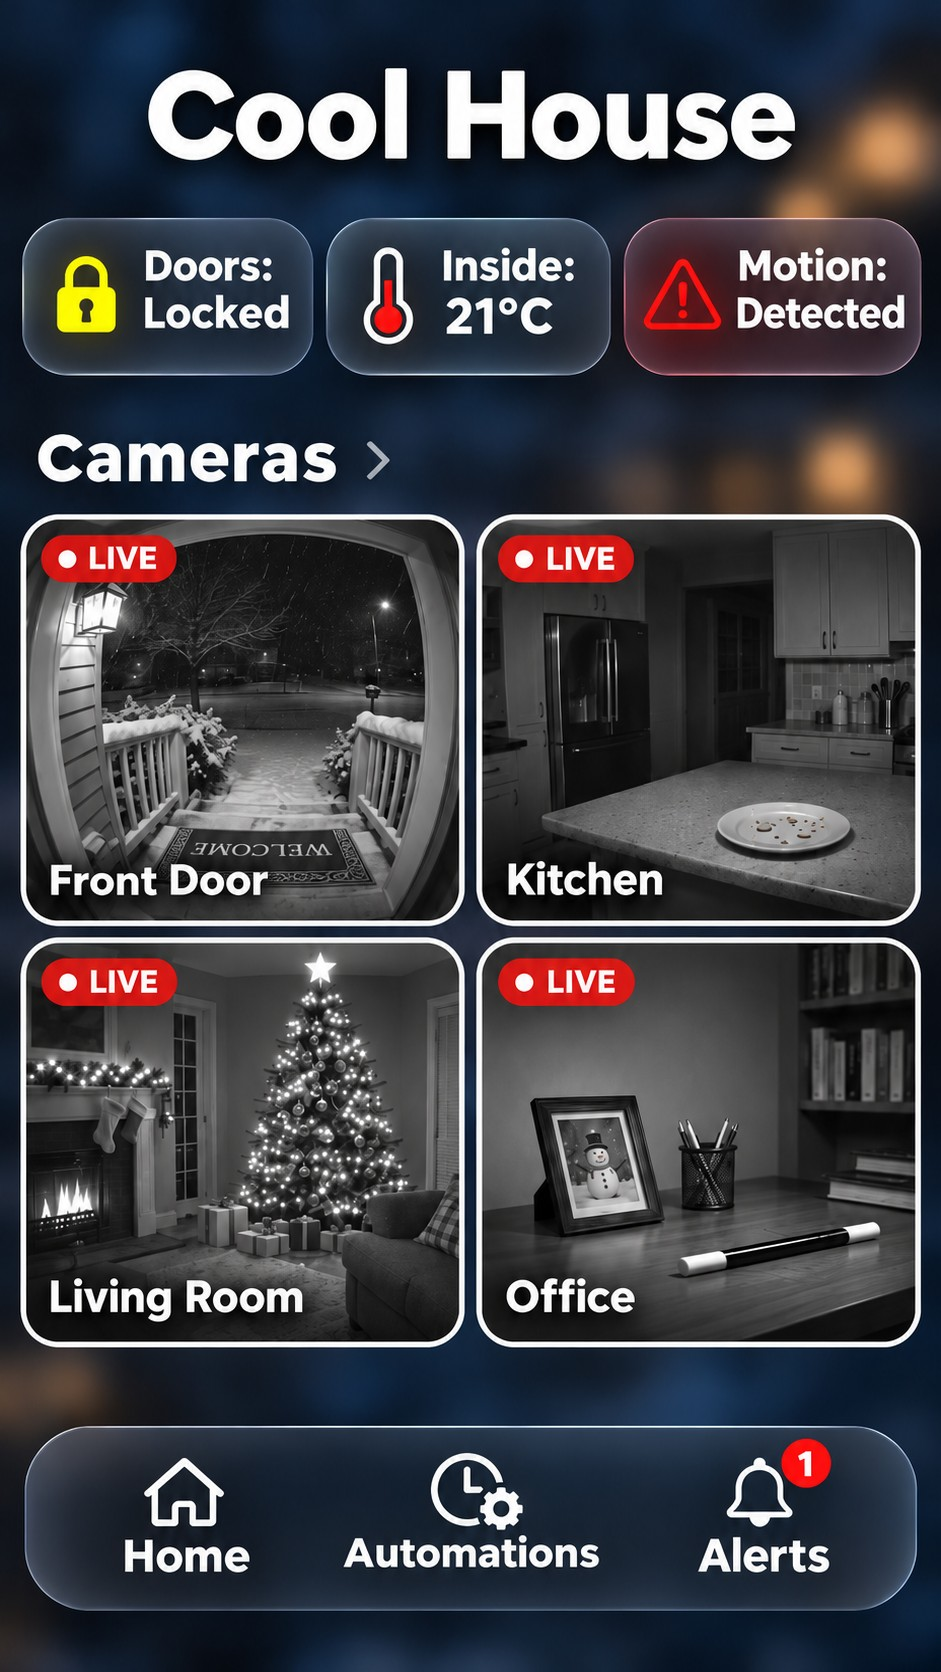
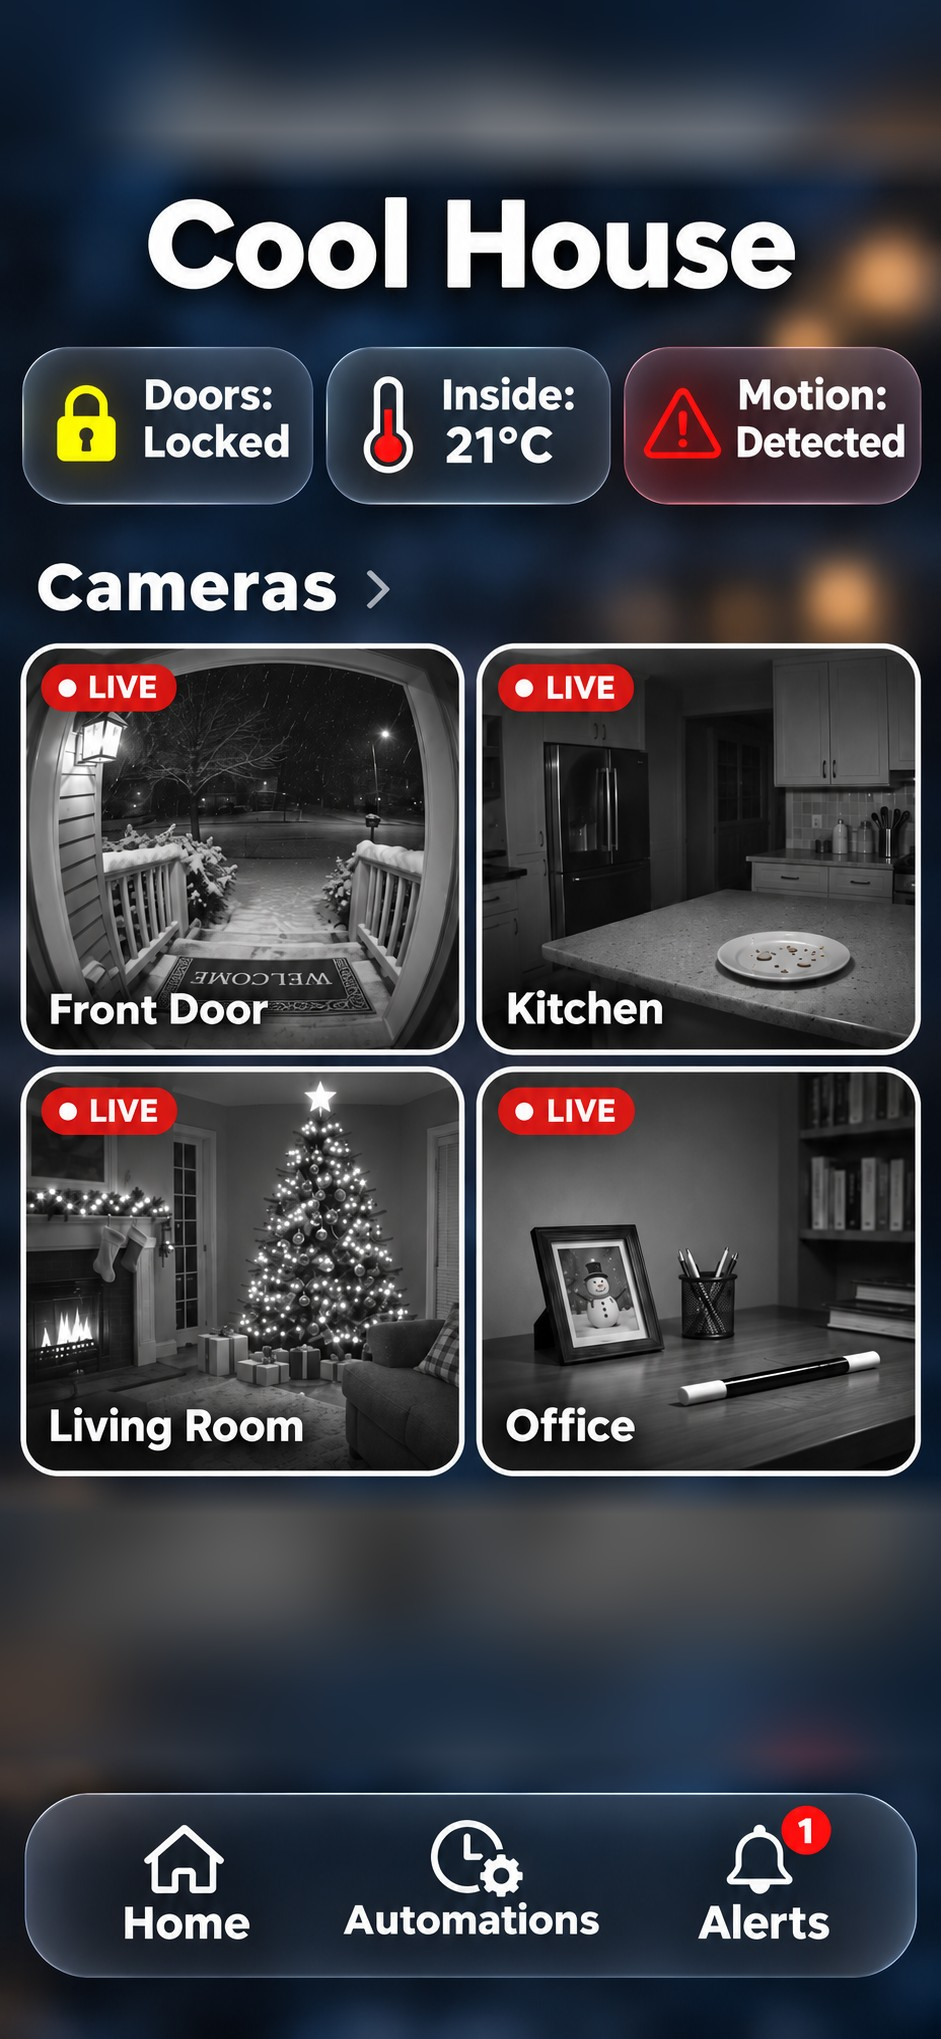
Fill the whole iPhone screen (taller home screen, adjusted tap areas)
Claude-Session: https://claude.ai/code/session_019bD5mApzQrtWGtcYUhJdYd

diff --git a/index.html b/index.html
@@ -19,23 +19,23 @@
 *{box-sizing:border-box;margin:0;-webkit-tap-highlight-color:transparent;-webkit-user-select:none;user-select:none;-webkit-touch-callout:none}
 html,body{height:100%;background:#000;overflow:hidden;touch-action:manipulation;overscroll-behavior:none;position:fixed;inset:0}
 body{display:flex;align-items:center;justify-content:center;font-family:-apple-system,system-ui,sans-serif}
-#stage{position:relative;width:min(100vw,calc(100vh * 941 / 1672));height:min(100vh,calc(100vw * 1672 / 941));overflow:hidden;background:#0a1630}
-@supports (height:100dvh){#stage{width:min(100vw,calc(100dvh * 941 / 1672));height:min(100dvh,calc(100vw * 1672 / 941))}}
+#stage{position:relative;width:min(100vw,calc(100vh * 941 / 2039));height:min(100vh,calc(100vw * 2039 / 941));overflow:hidden;background:#0a1630}
+@supports (height:100dvh){#stage{width:min(100vw,calc(100dvh * 941 / 2039));height:min(100dvh,calc(100vw * 2039 / 941))}}
 #home{position:absolute;inset:0;width:100%;height:100%;display:block}
 .hot{position:absolute;border-radius:4%;cursor:pointer}
 .hot.flash{animation:tap .35s ease}
 @keyframes tap{40%{box-shadow:0 0 0 .6vh #fff inset,0 0 3vh #fff;background:rgba(255,255,255,.18)}}
-#fd{left:2.1%;top:30.9%;width:47.2%;height:24.4%}
-#ki{left:50.7%;top:30.9%;width:47.2%;height:24.4%}
-#lr{left:2.1%;top:56.2%;width:47.2%;height:24.4%}
-#of{left:50.7%;top:56.2%;width:47.2%;height:24.4%}
-#title{left:12%;top:2.5%;width:76%;height:9%}
-#homebtn{left:4%;top:85%;width:22%;height:11%}
-#badge{position:absolute;left:85.2%;top:87.6%;transform:translate(-50%,-50%);min-width:5.8%;aspect-ratio:1;height:auto;padding:0 1.2%;border-radius:999px;background:#e8202a;color:#fff;font-weight:800;font-size:clamp(10px,2.1vh,26px);display:flex;align-items:center;justify-content:center;box-shadow:0 0 0 .35vh #0b1b38;pointer-events:none}
-#badge.wide{aspect-ratio:auto;height:3.3%;min-width:9%}
+#fd{left:2.1%;top:31.63%;width:47.2%;height:20.01%}
+#ki{left:50.7%;top:31.63%;width:47.2%;height:20.01%}
+#lr{left:2.1%;top:52.43%;width:47.2%;height:19.86%}
+#of{left:50.7%;top:52.43%;width:47.2%;height:19.86%}
+#title{left:12%;top:8.39%;width:76%;height:7.36%}
+#homebtn{left:4%;top:87.7%;width:22%;height:9%}
+#badge{position:absolute;left:85.2%;top:89.85%;transform:translate(-50%,-50%);min-width:5.8%;aspect-ratio:1;height:auto;padding:0 1.2%;border-radius:999px;background:#e8202a;color:#fff;font-weight:800;font-size:clamp(10px,2.1vh,26px);display:flex;align-items:center;justify-content:center;box-shadow:0 0 0 .35vh #0b1b38;pointer-events:none}
+#badge.wide{aspect-ratio:auto;height:2.7%;min-width:9%}
 #badge.pop{animation:pop .45s ease}
 @keyframes pop{45%{transform:translate(-50%,-50%) scale(1.45)}}
-#pill{position:absolute;left:66.3%;top:13%;width:31.2%;height:9.3%;border-radius:18%/30%;pointer-events:none}
+#pill{position:absolute;left:66.3%;top:16.97%;width:31.2%;height:7.6%;border-radius:18%/30%;pointer-events:none}
 #pill.glow{animation:glow 1.6s ease-in-out infinite}
 @keyframes glow{50%{box-shadow:0 0 2.2vh rgba(255,40,40,.75),inset 0 0 1.4vh rgba(255,60,60,.5)}}
 #pill.flash{animation:flash .25s ease 4}

diff --git a/sw.js b/sw.js
@@ -1,5 +1,5 @@
-const CACHE='cool-house-v1';
+const CACHE='cool-house-v2';
 const FILES=['./','index.html','home.jpg','icon.png','manifest.json','fd1.mp4','fd2.mp4','fd3.mp4'];
-self.addEventListener('install',e=>{e.waitUntil(caches.open(CACHE).then(c=>c.addAll(FILES)).then(()=>self.skipWaiting()))});
+self.addEventListener('install',e=>{e.waitUntil(caches.open(CACHE).then(c=>c.addAll(FILES.map(f=>new Request(f,{cache:'reload'})))).then(()=>self.skipWaiting()))});
 self.addEventListener('activate',e=>{e.waitUntil(caches.keys().then(ks=>Promise.all(ks.filter(k=>k!==CACHE).map(k=>caches.delete(k)))).then(()=>self.clients.claim()))});
 self.addEventListener('fetch',e=>{if(e.request.method!=='GET')return;e.respondWith(caches.match(e.request,{ignoreSearch:true}).then(r=>r||fetch(e.request)))});
